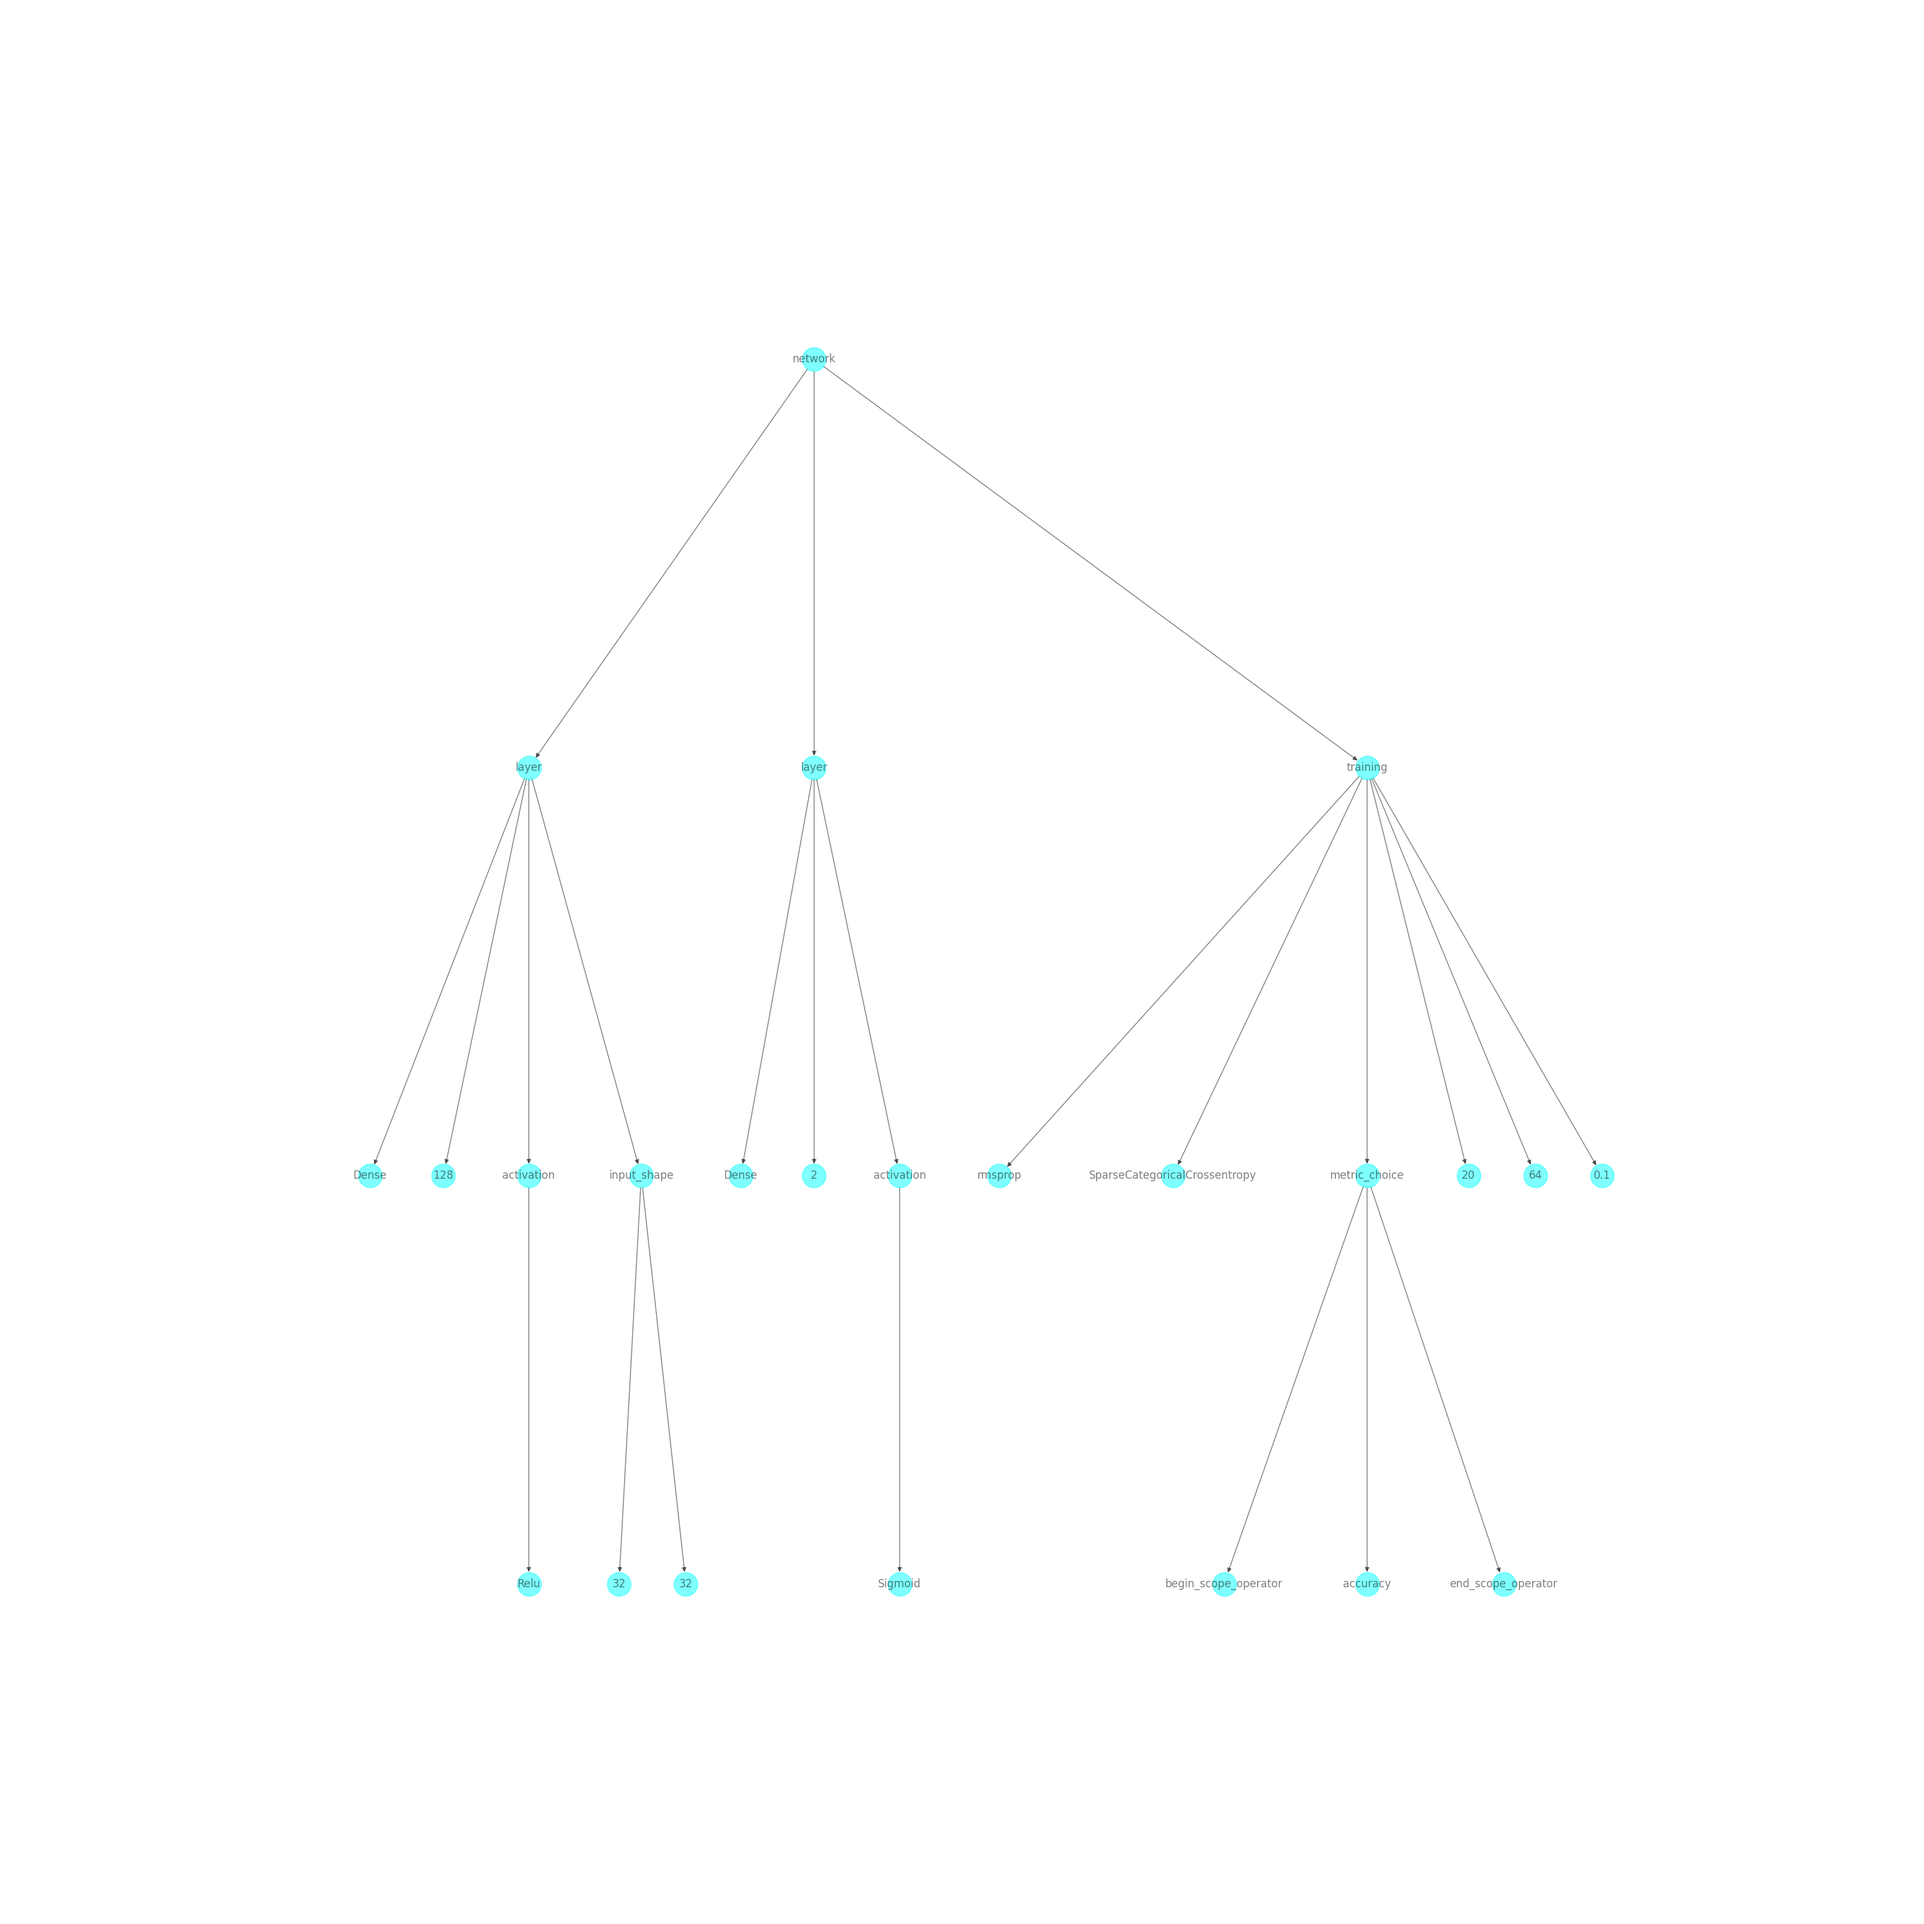
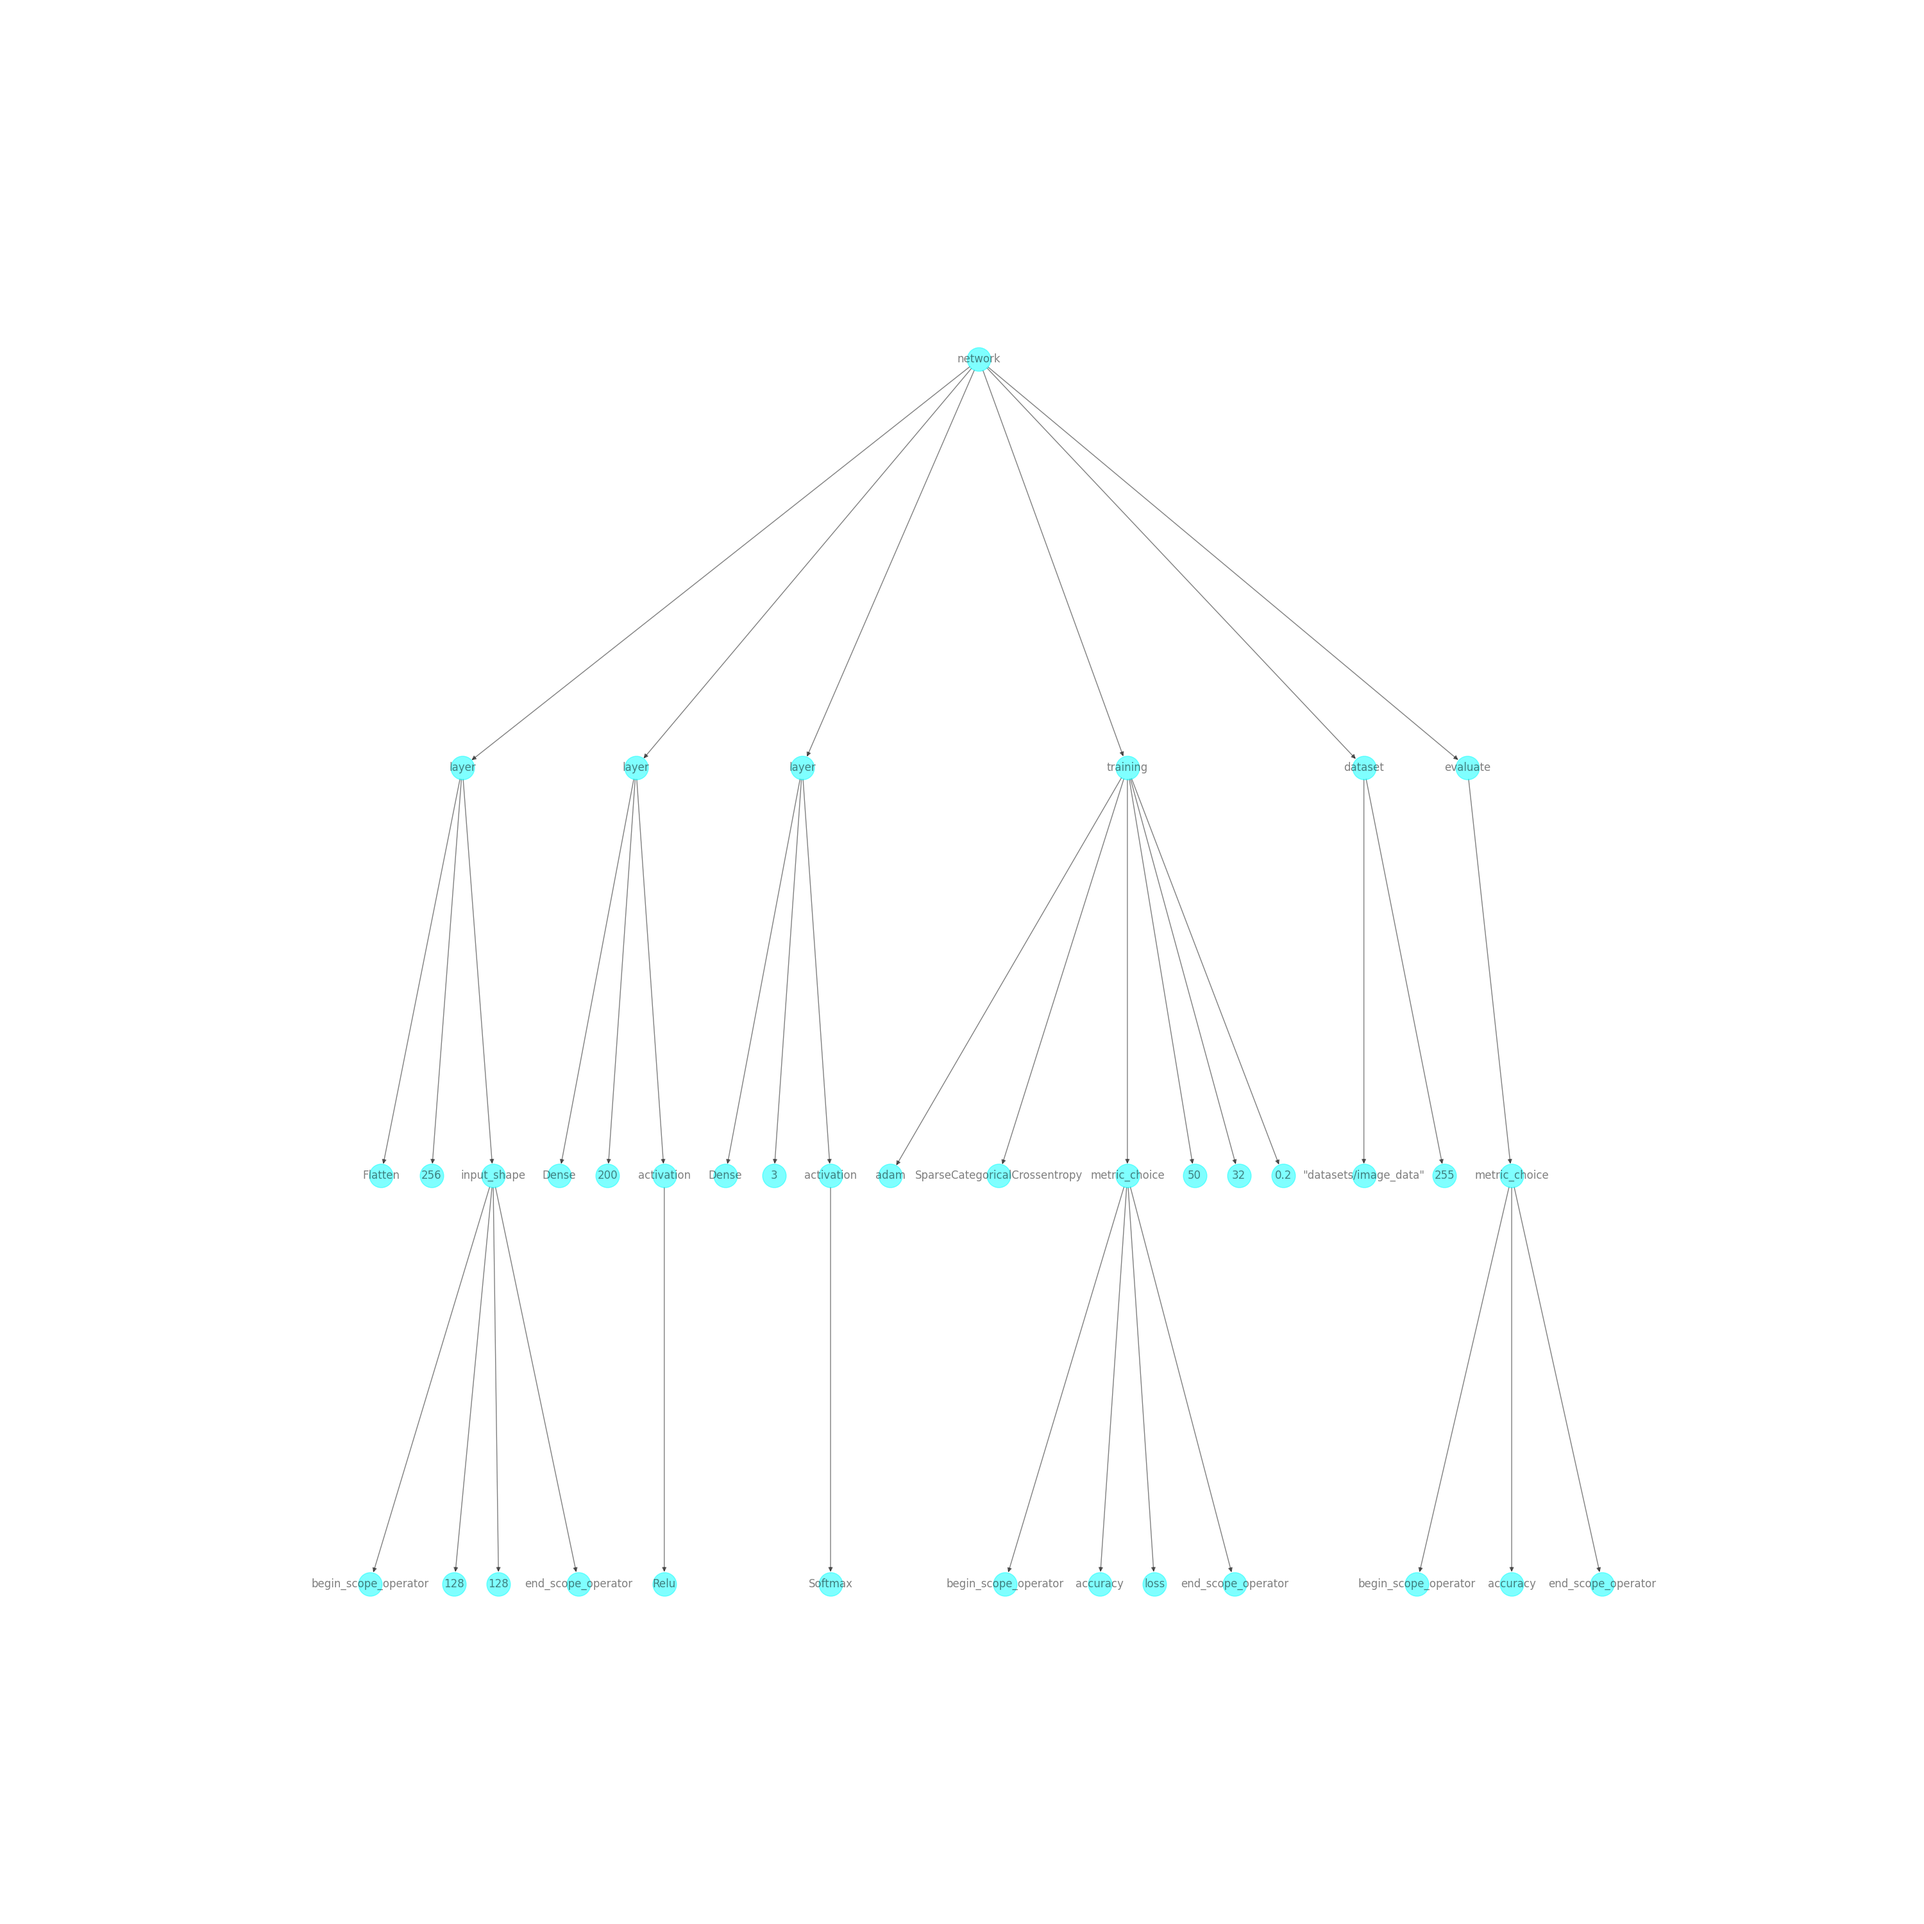
chore: output

diff --git a/src/output/generated_output3.py b/src/output/generated_output3.py
@@ -5,11 +5,12 @@ import numpy as np
 class NewNetwork:
 	def __init__(self):
 		self.model = tf.keras.Sequential()
-		self.model.add(tf.keras.layers.Dense(units=128, activation='Relu', input_shape=(32, 32)))
-		self.model.add(tf.keras.layers.Dense(units=2, activation='Sigmoid'))
+end_scope_operator		self.model.add(tf.keras.layers.128(units=128))
+		self.model.add(tf.keras.layers.Dense(units=200, activation='Relu'))
+		self.model.add(tf.keras.layers.Dense(units=3, activation='Softmax'))
 
 	def compile_model(self):
-		self.model.compile(optimizer='accuracy',
+		self.model.compile(optimizer='loss',
 			loss='end_scope_operator',
 			)
 
@@ -17,14 +18,23 @@ class NewNetwork:
 		self.model.fit(
 			x_train, y_train,
 			validation_data=(x_val, y_val),
-			epochs=20,
-			batch_size=64
+			epochs=50,
+			batch_size=32
 		)
+
+	def generate_dataset(self):
+		(x_train, y_train), (x_test, y_test) = tf.keras.datasets.mnist.load_data()
+		return x_train, x_train, y_train, y_test 
+
+	def evaluate_model(self, x_test, y_test):
+		results = self.model.evaluate(x_test, y_test, verbose=0)
+		print(f"Evaluation results:\n {results}")
 
 if __name__ == "__main__":
 	import tensorflow as tf
 	import numpy as np
 	network = NewNetwork()
-	(x_train, y_train), (x_test, y_test) = tf.keras.datasets.mnist.load_data()
+	x_train, x_test, y_train, y_test = network.generate_dataset()
 	network.compile_model()
 	network.train_model(x_train, y_train, x_test, y_test)
+	network.evaluate_model(x_test, y_test)
